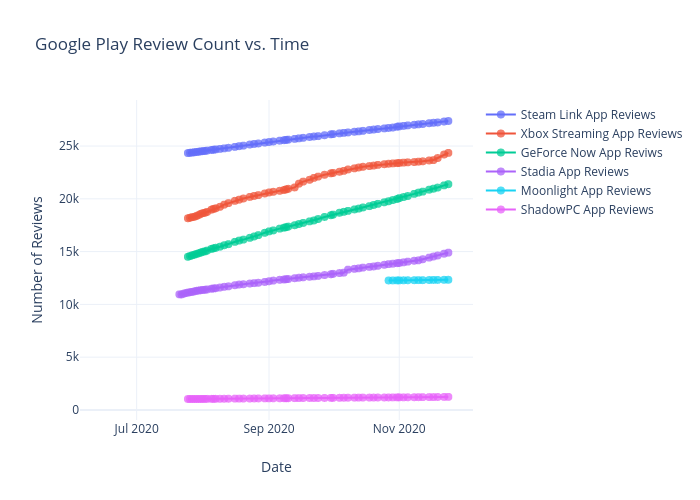
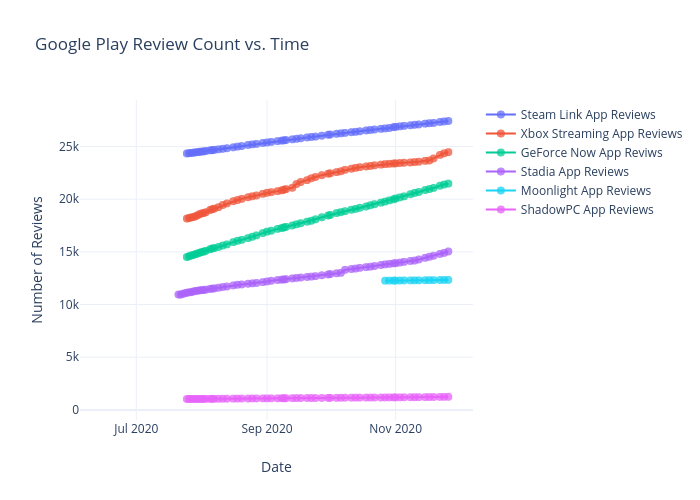
Add files via upload
November 26 updates

diff --git a/googleplay/figure.js b/googleplay/figure.js
@@ -154,7 +154,8 @@ var figure = {
                 "27204",
                 "27234",
                 "27323",
-                "27372"
+                "27372",
+                "27416"
             ],
             "marker": {
                 "size": 8,
@@ -317,7 +318,8 @@ var figure = {
                 "23667",
                 "23865",
                 "24197",
-                "24349"
+                "24349",
+                "24461"
             ],
             "marker": {
                 "size": 8,
@@ -480,7 +482,8 @@ var figure = {
                 "20959",
                 "21066",
                 "21275",
-                "21388"
+                "21388",
+                "21477"
             ],
             "marker": {
                 "size": 8,
@@ -643,7 +646,8 @@ var figure = {
                 "14531",
                 "14630",
                 "14801",
-                "14900"
+                "14900",
+                "15037"
             ],
             "marker": {
                 "size": 8,
@@ -806,7 +810,8 @@ var figure = {
                 "12314",
                 "12316",
                 "12327",
-                "12331"
+                "12331",
+                "12336"
             ],
             "marker": {
                 "size": 8,
@@ -969,7 +974,8 @@ var figure = {
                 "1219",
                 "1226",
                 "1232",
-                "1237"
+                "1237",
+                "1245"
             ],
             "marker": {
                 "size": 8,
@@ -986,8 +992,8 @@ var figure = {
         "xaxis": {
             "type": "date",
             "range": [
-                "2020-06-05 15:55:19.8444",
-                "2020-12-04 08:04:40.1556"
+                "2020-06-05 12:50:25.6809",
+                "2020-12-06 11:09:34.3191"
             ],
             "title": {
                 "text": "Date"
@@ -997,8 +1003,8 @@ var figure = {
         "yaxis": {
             "type": "linear",
             "range": [
-                -1055.0557939914165,
-                29463.055793991418
+                -1305.5600717274356,
+                29757.560071727436
             ],
             "title": {
                 "text": "Number of Reviews"
